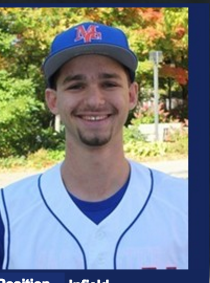
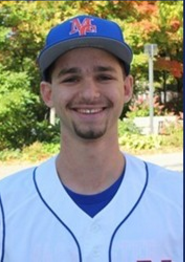
finished roster display.

diff --git a/www/templates/find-game.html b/www/templates/find-game.html
@@ -35,31 +35,61 @@
 
       <div class="game-content">
 
-        <h4>{{game.time | secondsToTime}}</h4> <br />
+
+        <div class="row game-details">
+          <div class="col col-50 location-pic">
+            <img class="img-location" ng-src="img/alumni-gym.png" alt="Alumni Gym">
+          </div>
+          <div class="col col-50">
+            <div class="row">
+              <div class="item item-unselectable location-display">
+                <label class="location-title">{{game.place}}</label>
+              </div>
+            </div>
+            <div class="row">
+              <div class="item item-unselectable skill-display">
+                <label class="location-title">{{game.skillLevel}}</label>
+              </div>
+            </div>
+          </div>
+        </div>
+
+
+
+
+        <!-- <h4>{{game.time | secondsToTime}}</h4> <br />
         {{game.sport}} <br />
         {{game.place}} <br />
         {{game.skillLevel}} <br />
-        Created by: {{getAthlete(game.gameCreatorID).name}} <br />
+        Created by: {{getAthlete(game.gameCreatorID).name}} <br /> -->
         <!-- <img ng-src="{{getAthlete(game.gameCreatorID).pic}}" alt="{{getAthlete(game.gameCreatorID).name}}"> -->
 
-        <h4>Roster</h4>
+        <!-- <h4>Roster</h4> -->
         <ion-list>
           <ion-item class="roster-item"ng-click="togglePlayersVisible(game);" ng-switch="game.playersVisible">
-            <span ng-switch-when="false" class="icon ion-arrow-right-b"></span>
-            <span ng-switch-when="true" class="icon ion-arrow-down-b"></span>
-              {{getNumPlayersInGame(game)}}/{{game.maxPlayers}}
+            <i ng-switch-when="false" class="icon ion-arrow-right-b roster-icon"></i>
+            <i ng-switch-when="true" class="icon ion-arrow-down-b roster-icon"></i>
+            <label class="roster-label">Roster: {{getNumPlayersInGame(game)}}/{{game.maxPlayers}}</label>
           </ion-item>
 
 
           <!-- TODO: Fix bug where player doesn't go away when removed sometimes -->
-          <ion-item ng-show="game.playersVisible" ng-repeat="player in getPlayersInGame(game.id)" ng-click="viewProfile(player)">
-            {{player.name}}
+          <ion-item class="row" ng-show="game.playersVisible" ng-repeat="player in getPlayersInGame(game.id)" ng-click="viewProfile(player)">
+            <div class="col-20">
+              <img class="img-profile" ng-src="{{player.pic}}" alt="Alumni Gym">
+            </div>
+            <div class="col player-col">
+              <label class="player-label">{{player.name}}</label>
+            </div>
+            <div class="col creator-col" ng-show="isGameCreator(game, player)">
+              <label class="creator-label">Game Creator</label>
+            </div>
           </ion-item>
 
-          <ion-item ng-show="showInvitePlayers(game, athlete)"class="item item-select invite-players" ng-click="viewPlayers(game);">
+          <!-- <ion-item ng-show="showInvitePlayers(game, athlete)"class="item item-select invite-players" ng-click="viewPlayers(game);">
               <span class="input-label">Invite Players</span>
               <span class="invite-display">{{getNumPlayersInvited(game) | displayNumInvitedPlayers}}</span>
-          </ion-item>
+          </ion-item> -->
 
           <ion-item ng-switch="gameDisplayOptions(game)">
             <button ng-switch-when=0 class="button button-royal button-block" ng-click="leaveGame(game)">Leave Game</button>

diff --git a/www/css/style.css b/www/css/style.css
@@ -23,8 +23,6 @@
   background-color: #424242;
   align-items: center;
   border-color: #424242;
-  /*z-index: -1;
-  position: relative;*/
 }
 
 .sport-label {
@@ -46,18 +44,65 @@
   border-left: solid 35px;
   border-right: solid 35px;
   border-color: #886aea;
-  margin-top: -2.8%;
+  /*margin-top: -2.8%;*/
+}
+
+.location-pic {
+  overflow: hidden;
+  padding: 0;
+  margin: 0;
+  /*display: block;*/
+  /*font-size: 0;*/
+}
+.img-location {
+  max-width:100%;
+  max-height:100%;
+  /*border:0;*/
+  /*float: left;*/
+}
+
+
+.location-display, .skill-display {
+  background-color: #a2a2a2;
 }
 
 .roster-item {
-  background-color: #886aea;
-  color: #fff;
+  display: flex;
+  align-items: center;
 }
 
-.invite-players {
-  /*background-color: #a2a2a2;
-  color: #fff;*/
+.roster-icon {
+  font-size: 35px;
+  color: #886aea;
+  padding-right: 5%;
 }
+
+.roster-label {
+  font-size: 25px;
+}
+
+.img-profile {
+  max-height: 100%;
+  max-width: 100%;
+  border-radius: 50%;
+  width: 50px;
+  height: 50px;
+  overflow: hidden;
+}
+
+.player-col, .creator-col {
+  display: flex;
+  align-items: center;
+}
+
+.player-label {
+  font-size: 20px;
+}
+
+.creator-label {
+  font-size: 11px;
+}
+
 
 /* create-game styling */
 .date-item {

diff --git a/www/js/services.js b/www/js/services.js
@@ -10,7 +10,7 @@
       userID: 0,
       name: "Joe Trier",
       gradYear: "2018",
-      pic: "img/Trier_Joe.png",
+      pic: "img/joe.png",
       skillLevel: "Competitive",
       favAthlete: "Byron Leftwich",
       bio: "Always ready to play.",
